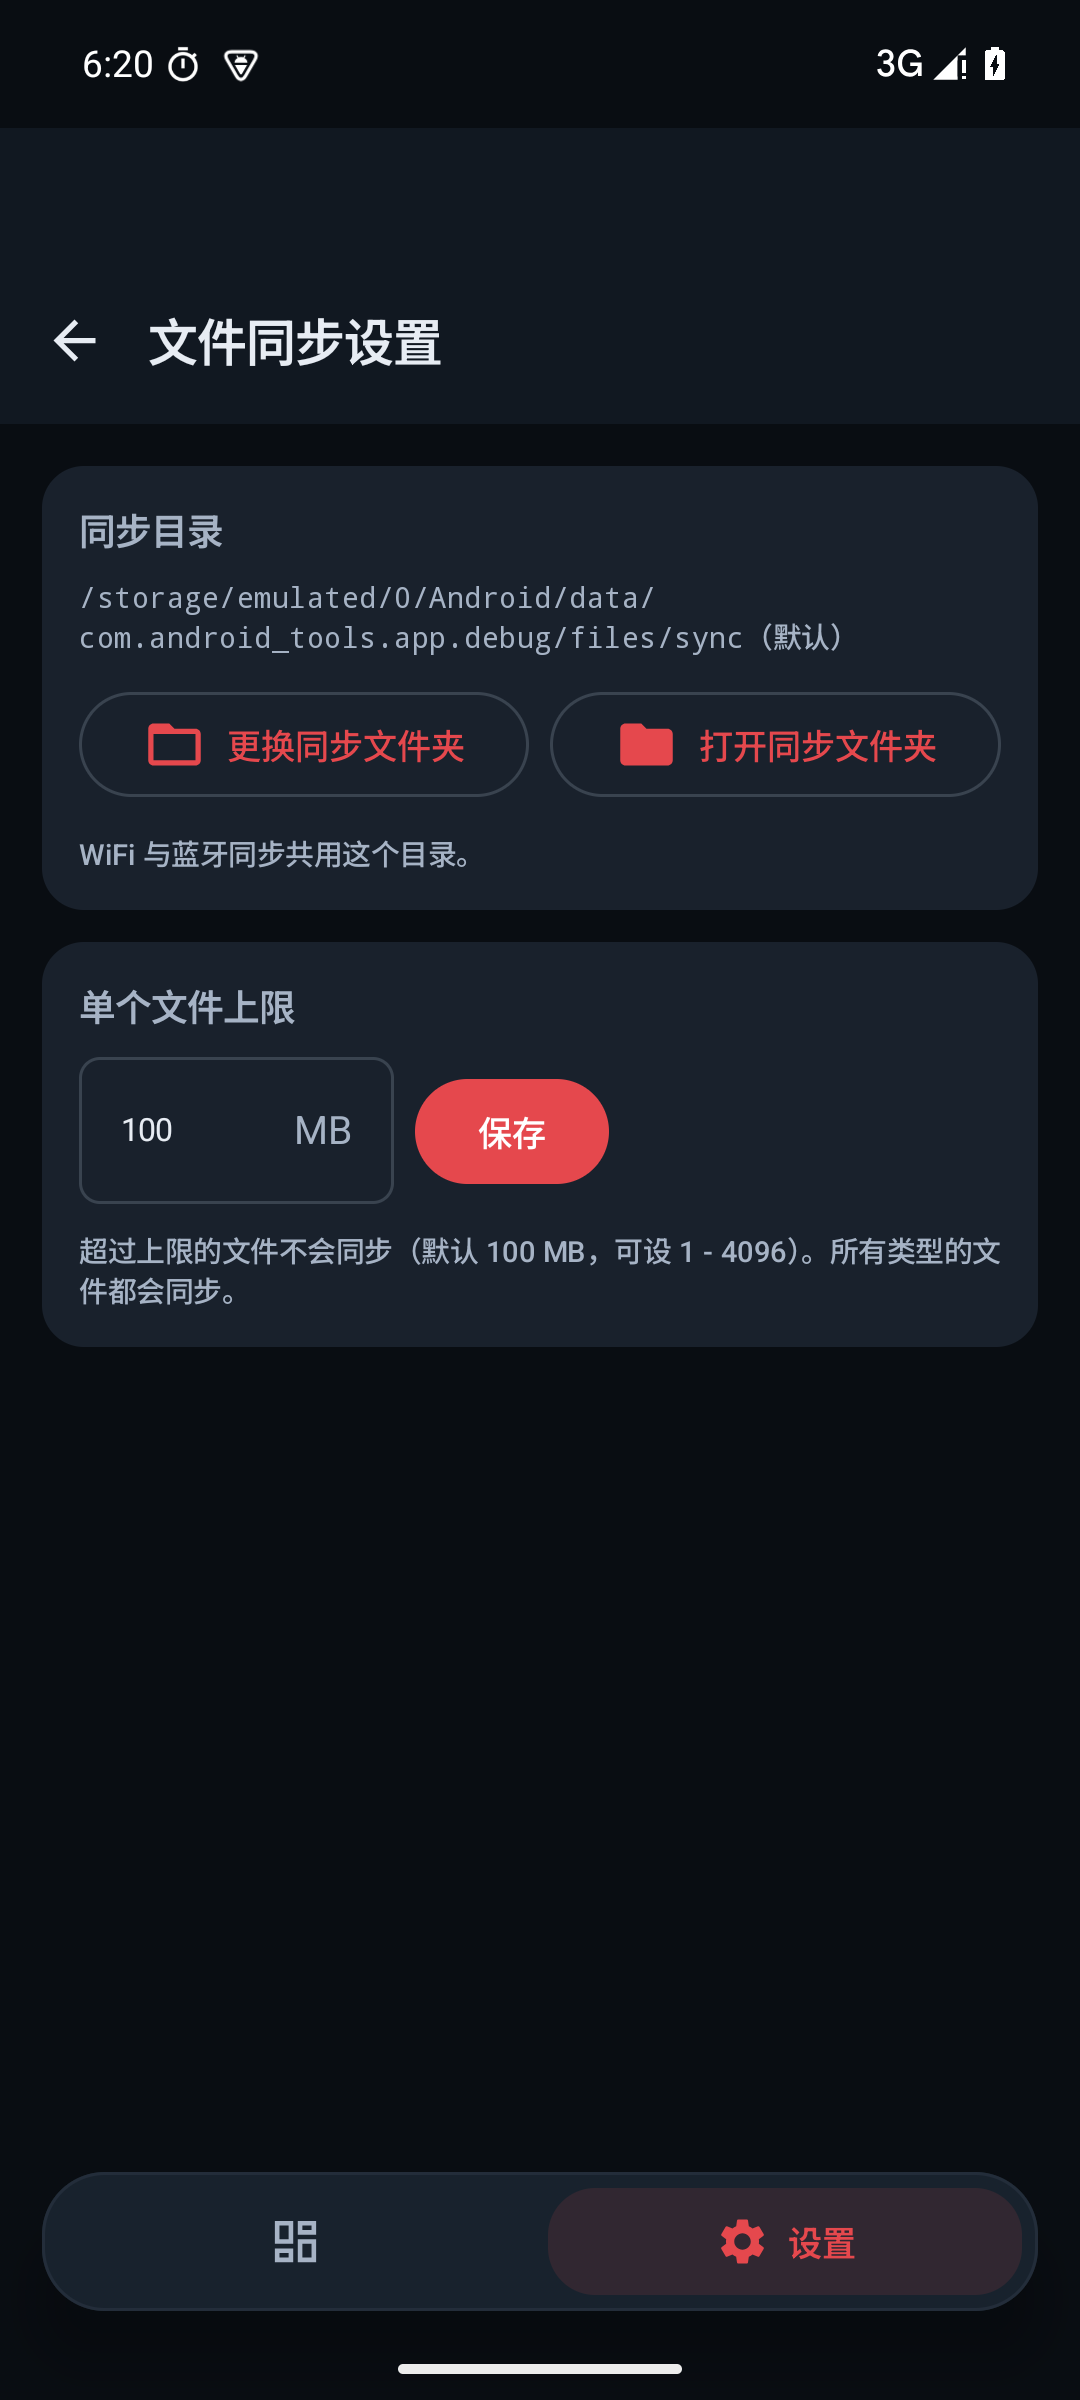
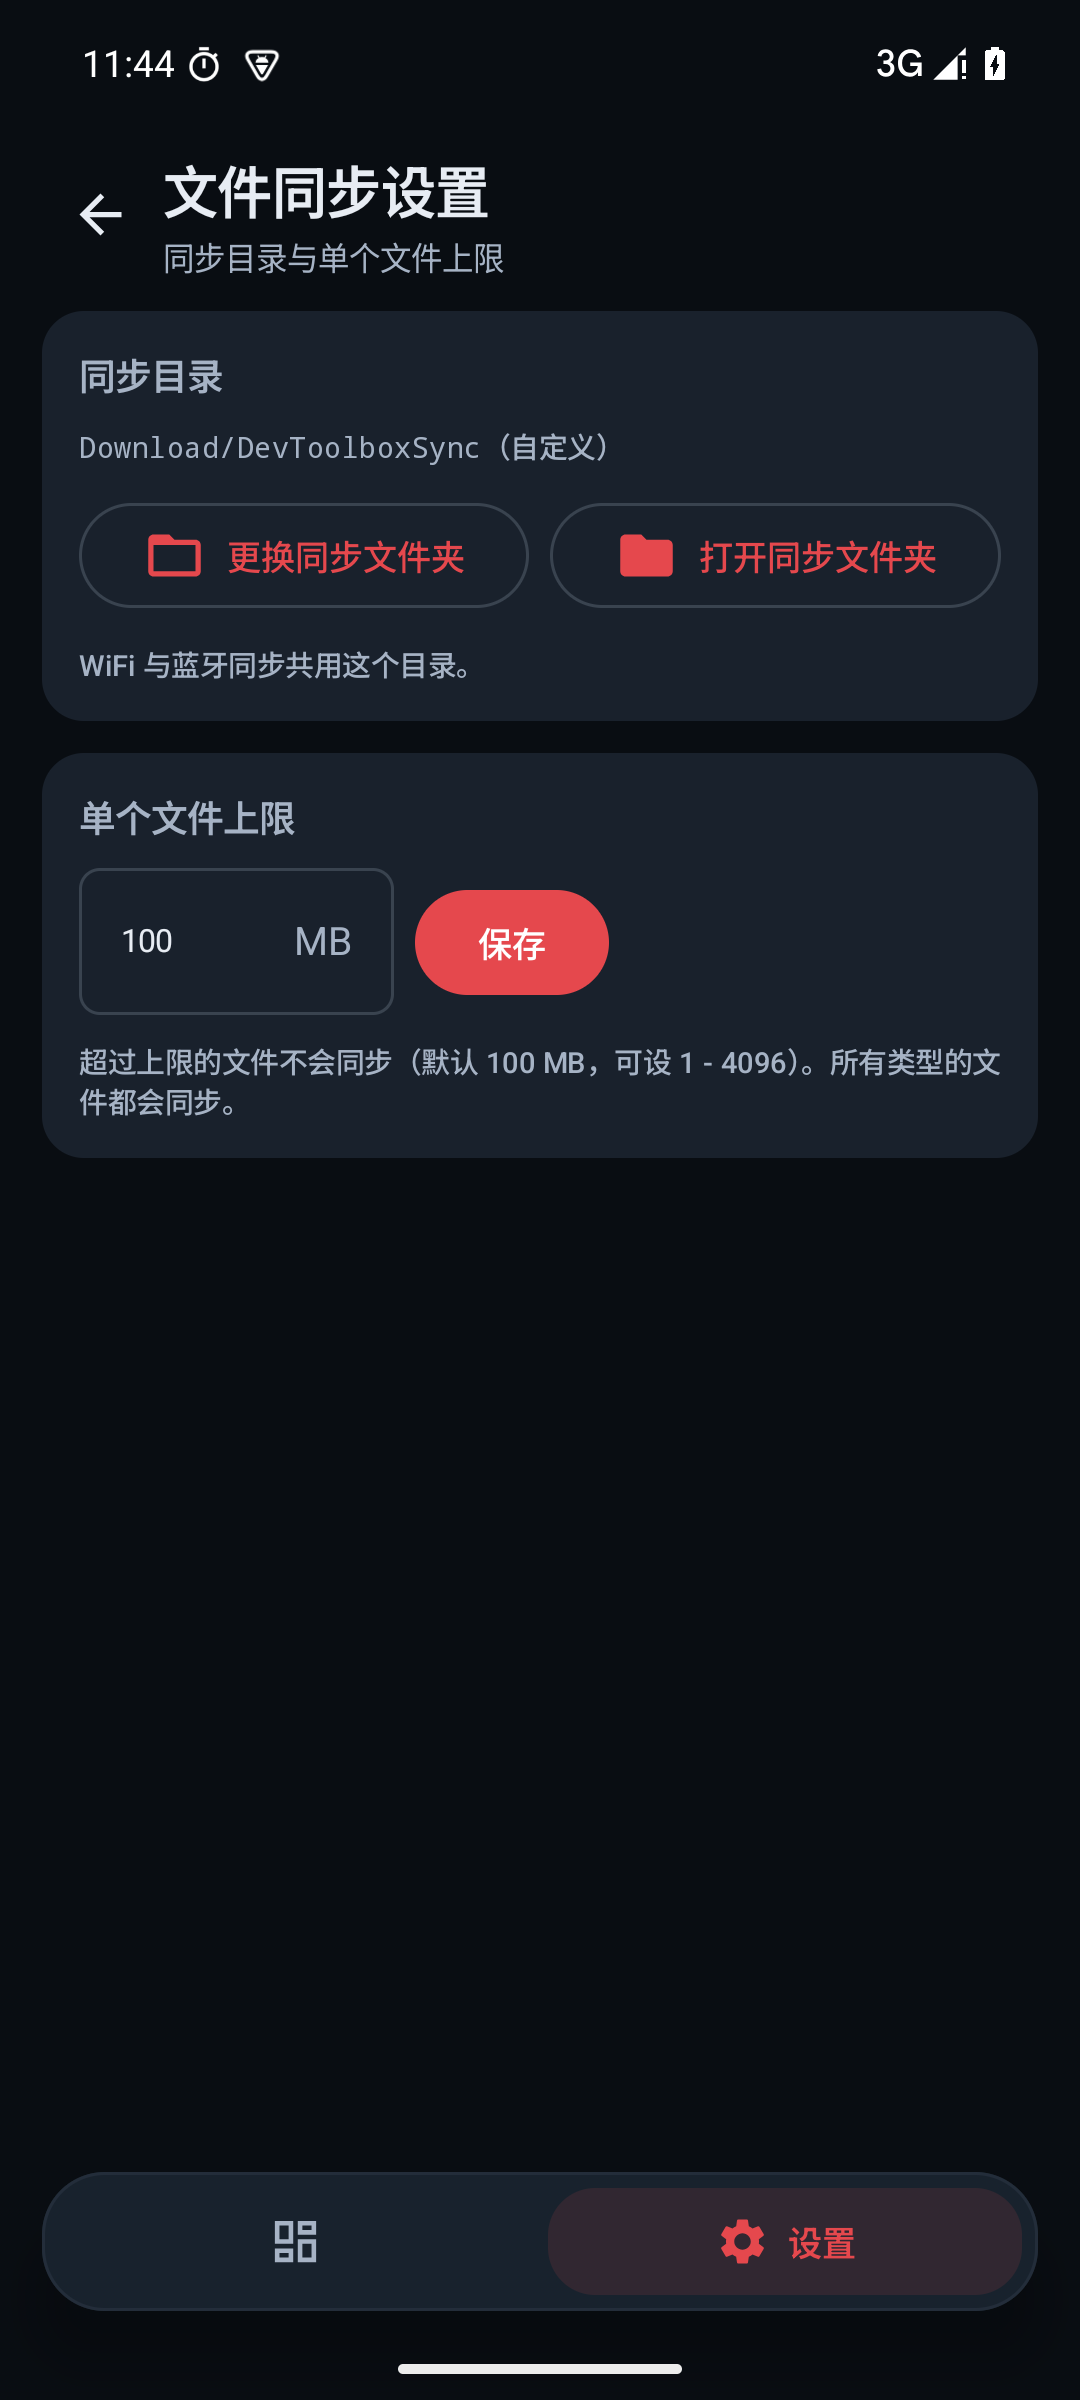
fix(v1.4.4): 修复文件同步设置页顶部空白，设置页补上本地聊天入口
- 文件同步设置页去掉自带的 Scaffold/TopAppBar（与全局状态栏内边距叠加导致顶部一块空白），
  统一改用 SubPageHeader，和录屏设置 / 聊天设置一致
- 「设置 → 工具设置」新增本地聊天入口（昵称、头像与监听端口），进入后返回仍回到设置页
- 文档截图更新：设置页、文件同步设置
- versionName 1.4.4 / versionCode 21

Changed region(s): [[0.0306, 0.0625, 0.9778, 0.5625], [0.0611, 0.0, 0.2444, 0.0312], [0.0611, 0.0625, 0.0917, 0.0938]]

diff --git a/app/src/main/java/com/android_tools/app/ui/FileSyncSettingsScreen.kt b/app/src/main/java/com/android_tools/app/ui/FileSyncSettingsScreen.kt
@@ -17,7 +17,7 @@ import androidx.compose.foundation.rememberScrollState
 import androidx.compose.foundation.text.KeyboardOptions
 import androidx.compose.foundation.verticalScroll
 import androidx.compose.material.icons.Icons
-import androidx.compose.material.icons.automirrored.filled.ArrowBack
+
 import androidx.compose.material.icons.filled.Folder
 import androidx.compose.material.icons.filled.FolderOpen
 import androidx.compose.material3.Button
@@ -25,13 +25,13 @@ import androidx.compose.material3.Card
 import androidx.compose.material3.CardDefaults
 import androidx.compose.material3.ExperimentalMaterial3Api
 import androidx.compose.material3.Icon
-import androidx.compose.material3.IconButton
+
 import androidx.compose.material3.MaterialTheme
 import androidx.compose.material3.OutlinedButton
 import androidx.compose.material3.OutlinedTextField
-import androidx.compose.material3.Scaffold
+
 import androidx.compose.material3.Text
-import androidx.compose.material3.TopAppBar
+
 import androidx.compose.runtime.Composable
 import androidx.compose.runtime.getValue
 import androidx.compose.runtime.mutableStateOf
@@ -77,20 +77,19 @@ fun FileSyncSettingsScreen(onBack: () -> Unit) {
         }
     }
 
-    Scaffold(
-        topBar = {
-            TopAppBar(
-                title = { Text("文件同步设置") },
-                navigationIcon = {
-                    IconButton(onClick = onBack) {
-                        Icon(Icons.AutoMirrored.Filled.ArrowBack, contentDescription = "返回")
-                    }
-                },
-            )
-        },
-    ) { padding ->
+    Column(modifier = Modifier.fillMaxSize()) {
+        SubPageHeader(
+            title = "文件同步设置",
+            subtitle = "同步目录与单个文件上限",
+            onBack = onBack,
+            modifier = Modifier.padding(horizontal = 8.dp),
+        )
         Column(
-            modifier = Modifier.fillMaxSize().padding(padding).verticalScroll(rememberScrollState()).padding(16.dp),
+            modifier = Modifier
+                .fillMaxWidth()
+                .weight(1f)
+                .verticalScroll(rememberScrollState())
+                .padding(horizontal = 16.dp, vertical = 8.dp),
             verticalArrangement = Arrangement.spacedBy(12.dp),
         ) {
             Card(colors = CardDefaults.cardColors(containerColor = MaterialTheme.colorScheme.surfaceVariant)) {

diff --git a/app/src/main/java/com/android_tools/app/ui/SettingsScreen.kt b/app/src/main/java/com/android_tools/app/ui/SettingsScreen.kt
@@ -16,6 +16,7 @@ import androidx.compose.foundation.verticalScroll
 import androidx.compose.material.icons.Icons
 import androidx.compose.material.icons.filled.Dashboard
 import androidx.compose.material.icons.outlined.Apps
+import androidx.compose.material.icons.outlined.Chat
 import androidx.compose.material.icons.outlined.FolderShared
 import androidx.compose.material.icons.outlined.Info
 import androidx.compose.material.icons.outlined.Storage
@@ -37,6 +38,7 @@ import com.android_tools.app.BuildConfig
 fun SettingsScreen(
     onOpenRecorderSettings: () -> Unit,
     onOpenFileSync: () -> Unit,
+    onOpenLocalChatSettings: () -> Unit,
     modifier: Modifier = Modifier,
 ) {
     val version = BuildConfig.VERSION_NAME.substringBefore("-")
@@ -70,6 +72,14 @@ fun SettingsScreen(
                 leading = Icons.Outlined.FolderShared,
                 leadingTint = AppAccents.Sync[1],
                 onClick = onOpenFileSync,
+            )
+            RowDivider()
+            SettingsRow(
+                title = "本地聊天",
+                subtitle = "昵称、头像与监听端口",
+                leading = Icons.Outlined.Chat,
+                leadingTint = AppAccents.Chat[1],
+                onClick = onOpenLocalChatSettings,
             )
         }
 

diff --git a/app/src/main/java/com/android_tools/app/ui/RecorderApp.kt b/app/src/main/java/com/android_tools/app/ui/RecorderApp.kt
@@ -354,6 +354,7 @@ fun RecorderApp() {
                     AppTab.SETTINGS -> SettingsScreen(
                         onOpenRecorderSettings = { push(Route.RECORDER_SETTINGS) },
                         onOpenFileSync = { push(Route.FILE_SYNC_SETTINGS) },
+                        onOpenLocalChatSettings = { push(Route.LOCAL_CHAT_SETTINGS) },
                     )
                 }
             }

diff --git a/README.md b/README.md
@@ -309,6 +309,12 @@ app/src/main/java/com/android_tools/app/
 
 ## 版本
 
+`1.4.4` — 两处体验修复：
+
+- 修复「文件同步设置」页顶部多出一块空白（二级页自带的 Scaffold 顶栏与全局状态栏内边距叠加，
+  统一改成 `SubPageHeader`，和录屏设置 / 聊天设置一致）
+- 「设置 → 工具设置」新增**本地聊天**入口（昵称、头像、监听端口），从设置进入后返回仍回到设置页
+
 `1.4.3` — 顶部样式统一 + 名称调整，对应需求 `需求/version-1.4.3.MD`：
 
 - 录屏工具中文名改为**屏幕录制**（工具页卡片、工具页标题、设置页目录保持一致）
